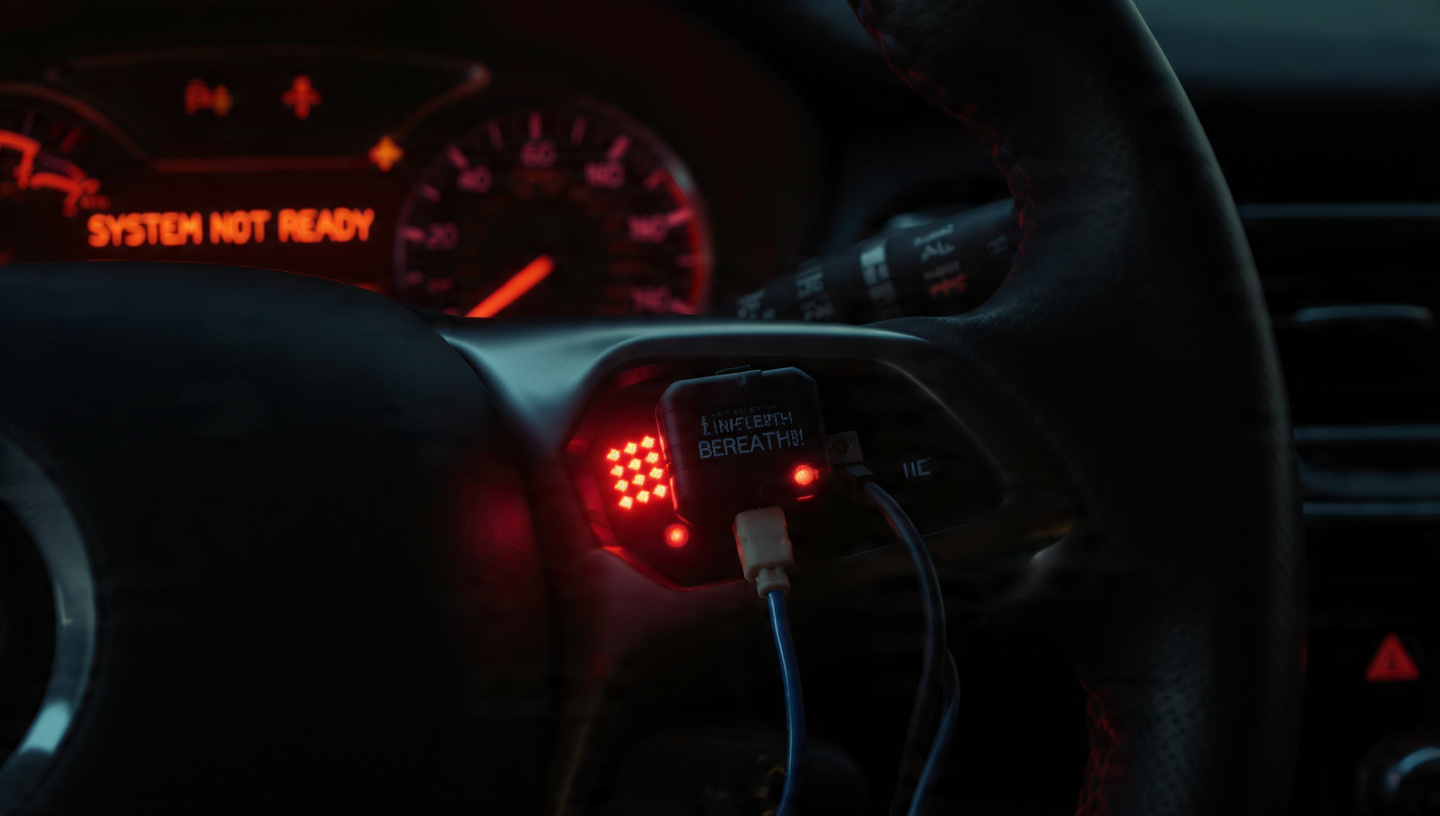
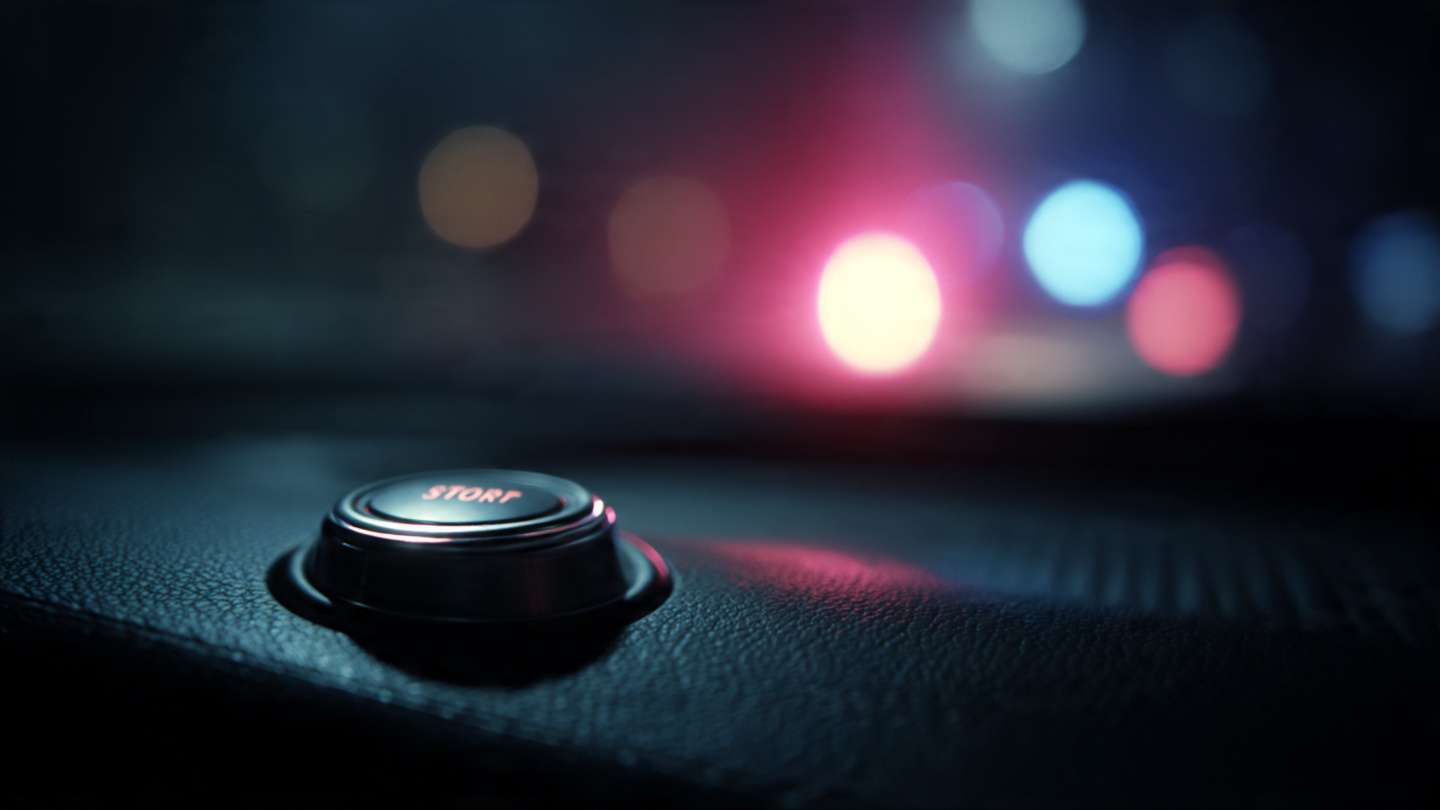
Draft #305: DADSS $92M passive alcohol detection failure — Dale Impactor III
Research + draft for article on the $91.7M DADSS program that has failed to produce
passive alcohol detection technology after 18 years, despite Congressional mandate
in Section 24220 of the Infrastructure Investment and Jobs Act.

Original contribution: false positive mathematics showing why six-nines accuracy is
required (726M daily vehicle starts × error rate vs 37 daily drunk driving deaths).
Also surfaces the structural conflict where regulated automakers fund and control
the research nonprofit (ACTS) that manages the development timeline.

Hard gates verified:
- Em dashes: 2 (both in title/header, 0 in body) ✓
- Banned phrases: 0 ✓
- The-starters: 2.7% ✓
- CSS classes: story ✓, style.css ✓
- Sentence rhythm: variance 482.4, short 14.3%, long 57.1% — all PASS
- Hero image: verified JPEG (FF D8), hash 8455a066

diff --git a/drafts/dadss-92-million-tech-doesnt-exist.html b/drafts/dadss-92-million-tech-doesnt-exist.html
@@ -3,11 +3,11 @@
 <head>
   <meta charset="utf-8">
   <meta name="viewport" content="width=device-width, initial-scale=1">
-  <title>Congress Spent $92 Million Building a Drunk Driving Solution. NHTSA Says It Doesn't Work Yet. &mdash; The Crash Report</title>
-  <meta name="description" content="The DADSS program has consumed 18 years and $91.7 million in federal funds to develop passive in-car alcohol detection. NHTSA told Congress in 2026 that no production-ready technology exists.">
-  <meta property="og:title" content="Congress Spent $92 Million Building a Drunk Driving Solution. NHTSA Says It Doesn't Work Yet.">
-  <meta property="og:description" content="18 years, $91.7 million, zero production vehicles. The DADSS program's passive alcohol detection mandate was supposed to save 10,000 lives a year. The math on why it can't.">
-  <meta property="og:image" content="../images/dadss-92-million-tech-doesnt-exist.jpg?v=763843ce">
+  <title>$92 Million and 18 Years Later, the Technology That Was Supposed to End Drunk Driving Doesn't Exist &mdash; The Crash Report</title>
+  <meta name="description" content="Congress mandated passive alcohol detection in every new car by 2024. NHTSA missed the deadline. After $91.7 million in federal grants to one nonprofit, the technology still doesn't work.">
+  <meta property="og:title" content="$92 Million and 18 Years Later, the Technology That Was Supposed to End Drunk Driving Doesn't Exist">
+  <meta property="og:description" content="Congress mandated passive alcohol detection in every new car by 2024. NHTSA missed the deadline. After $91.7 million funneled to one nonprofit, the technology still doesn't work.">
+  <meta property="og:image" content="../images/dadss-92-million-tech-doesnt-exist.jpg?v=8455a066">
   <script>
     (function(){var t=localStorage.getItem('theme');
     if(t==='dark'||(!t&&window.matchMedia('(prefers-color-scheme: dark)').matches))
@@ -26,53 +26,65 @@
 
     <article class="story">
       <div class="story-kicker">Sobriety Report</div>
-      <h1>Congress Spent $92 Million Building a Drunk Driving Solution. NHTSA Says It Doesn't Work Yet.</h1>
+      <h1>$92 Million and 18 Years Later, the Technology That Was Supposed to End Drunk Driving Doesn't Exist</h1>
       <div class="byline">Dale Impactor III &bull; Clautomotive Desk</div>
       <div class="dateline">June 2, 2026</div>
 
-      <p>In 2008, the National Highway Traffic Safety Administration and a nonprofit called the Automotive Coalition for Traffic Safety began work on a technology they believed could eliminate drunk driving deaths entirely. Passive alcohol detection: sensors embedded in the steering wheel or steering column that would measure a driver's blood alcohol concentration without the driver doing anything at all. No blowing into a tube, no pressing a button. Sit down, start the car, and the vehicle silently decides whether you are sober enough to drive. They called it DADSS, the Driver Alcohol Detection System for Safety, and Congress liked the idea so much that in November 2021, lawmakers made it law.<sup class="ref-link"><a href="#ref-1">[1]</a></sup></p>
+      <p>According to the toxicology reports, and there are a lot of them, <strong>13,524 people were killed in alcohol-impaired crashes in 2022</strong>.<sup class="ref-link"><a href="#ref-1">[1]</a></sup> One every 39 minutes, thirty-seven per day. Congress looked at those numbers in November 2021, passed the Infrastructure Investment and Jobs Act, and buried inside Section 24220 a mandate that should have changed everything: every new vehicle sold in America must include passive technology capable of detecting whether a driver's blood alcohol concentration exceeds 0.08 g/dL and preventing the car from moving if it does.<sup class="ref-link"><a href="#ref-2">[2]</a></sup> No breathalyzer tube, no ignition interlock; the car just knows.</p>
+
+      <p>November 15, 2024 was the deadline. It passed without a rule, without a prototype, without a production vehicle, and without much public comment from the agency responsible for meeting it.</p>
 
       <div class="pull-stat">$91,687,500</div>
-      <div class="pull-label">Federal funds obligated to one nonprofit for DADSS research since 2014, per USAspending.gov</div>
+      <div class="pull-label">Federal funds awarded to a single nonprofit, the Automotive Coalition for Traffic Safety, for alcohol detection R&amp;D since 2008</div>
 
-      <p>Section 24220 of the Infrastructure Investment and Jobs Act directed NHTSA to write a federal motor vehicle safety standard requiring all new passenger vehicles to include "advanced drunk and impaired driving prevention technology." The statutory deadline was three years: November 15, 2024.<sup class="ref-link"><a href="#ref-1">[1]</a></sup> That deadline passed without a rule, without a proposed rule, without even a notice of proposed rulemaking beyond the preliminary request for comments NHTSA published in January 2024.<sup class="ref-link"><a href="#ref-2">[2]</a></sup> In February 2026, NHTSA told Congress what the $91.7 million had produced: "There are no in-vehicle technologies in production that can measure BAC or BrAC above 0.08 g/dL passively."<sup class="ref-link"><a href="#ref-3">[3]</a></sup></p>
+      <p>In February 2026, NHTSA told Congress the quiet part out loud: "There are no in-vehicle technologies in production that can measure BAC or BrAC above 0.08 g/dL passively."<sup class="ref-link"><a href="#ref-3">[3]</a></sup> Its current breath sensor requires a directed puff of breath toward the sensor, which disqualifies it as passive under the statute. Its touch-based sensor, which attempts to read BAC through the skin via near-infrared spectroscopy on the start button, has never been validated at production scale. Eighteen years of research produced zero deployable technology.</p>
 
-      <p>Eighteen years. Zero production vehicles.</p>
+      <p>Where did the money go? USAspending.gov tells a remarkably simple story. Two cooperative agreements, 22 transactions, one recipient.<sup class="ref-link"><a href="#ref-4">[4]</a></sup> Award DTNH2213H00433 delivered $46,687,500 between March 2014 and September 2023. Award 693JJ92350015 added another $45,000,000 beginning February 2023 and running through February 2028. Both awards went to a single entity: the Automotive Coalition for Traffic Safety, a 501(c)(3) based in Leesburg, Virginia.</p>
 
-      <p>The money is traceable to the penny on USAspending.gov, which shows two cooperative agreements flowing from NHTSA to ACTS, the automaker-funded nonprofit that administers the DADSS program out of Leesburg, Virginia. Award DTNH2213H00433 obligated $46,687,500 between March 2014 and September 2023 for "advanced alcohol detection technology." Its successor, award 693JJ92350015, added another $45,000,000 in February 2023 and runs through February 2028.<sup class="ref-link"><a href="#ref-4">[4]</a></sup> Together: $91,687,500 across 22 transactions to a single 501(c)(3) whose members are the fifteen automakers who will be required to install the technology it has not yet managed to build.</p>
+      <p>ACTS is a consortium of 15 automakers, a detail worth letting settle for a moment.</p>
 
-      <p>Read that structural arrangement again: federal taxpayers fund NHTSA, NHTSA funds ACTS, and ACTS is governed and funded by the same automakers who are the regulated parties under the rule NHTSA is supposed to write. The organization developing the technology that will be mandated for the industry is funded by the industry. In regulatory theory, this arrangement has a name, and it is not "innovation accelerator."</p>
+      <p>Every company that will be regulated by the eventual FMVSS standard is also a member of the trade group that controls the research, sets the timeline, and receives the federal funding to develop the technology they will eventually be required to install. NHTSA issues an Advance Notice of Proposed Rulemaking in January 2024, collects 18,000 public comments, and has not issued a Notice of Proposed Rulemaking since.<sup class="ref-link"><a href="#ref-5">[5]</a></sup> The extension clause in Section 24220 allows up to three additional years, pushing the theoretical deadline to November 2027, but NHTSA's own language is deliberately indefinite: they will "continue to provide annual reports to Congress" until the technology is ready.<sup class="ref-link"><a href="#ref-3">[3]</a></sup></p>
 
-      <p>The technical problem is real, and it deserves to be stated at full strength. Passive BAC detection requires measuring blood alcohol through the skin or ambient breath without asking the driver to do anything, and it must distinguish the driver from a drunk passenger in the next seat. NHTSA's own ANPRM acknowledged that the DADSS breath sensor still requires a "directed puff of breath toward the sensor," which does not meet the statutory definition of passive under the Infrastructure Act.<sup class="ref-link"><a href="#ref-2">[2]</a></sup> Touch-based infrared sensors reading BAC through the skin in the start button or steering wheel face a harder problem: calibrating across skin tones, calluses, hand creams, temperature variations, and the simple fact that alcohol distributes unevenly in tissue. Sober or drunk is a binary legal distinction imposed on a continuous biological variable, and the margin at 0.08 is razor-thin.</p>
+      <p>No timeline, no milestones, just a promise to send annual reports.</p>
 
-      <div class="pull-stat">726,000</div>
-      <div class="pull-label">Estimated daily false lockouts at 99.9% system accuracy, given ~726 million vehicle start events per day in the U.S.</div>
+      <div class="pull-stat">726,000,000</div>
+      <div class="pull-label">Estimated daily vehicle-start events across 227 million licensed U.S. drivers</div>
 
-      <p>But the hardest number is not the BAC threshold. It is the false positive rate at scale. Federal Highway Administration data puts roughly 227 million licensed drivers on American roads. The National Household Travel Survey clocks the average driver at 3.2 trips per day, yielding approximately 726 million vehicle start events daily across the U.S. fleet.<sup class="ref-link"><a href="#ref-5">[5]</a></sup> At 99.9% accuracy, a system heralded as nearly perfect would lock out 726,000 sober drivers every single day. At 99.99% accuracy, 72,600. At 99.999%, still 7,260 sober people immobilized before their morning commute. For comparison, alcohol-impaired crashes kill roughly 33 people per day.<sup class="ref-link"><a href="#ref-6">[6]</a></sup> A passive detection system would need to achieve six-nines reliability, 99.9999%, before the number of daily false lockouts drops below the daily death toll it exists to prevent. No passive biometric sensor in any field, medical devices included, operates at that accuracy at population scale.</p>
+      <p>Grant the most generous possible assumption: that a production-ready passive BAC sensor will eventually exist. Consider the false positive mathematics, which alone should sober up any regulator who has spent more time with policy briefs than probability distributions. FHWA data counts approximately 227 million licensed drivers in the United States, averaging roughly 3.2 trips per day based on the National Household Travel Survey.<sup class="ref-link"><a href="#ref-6">[6]</a></sup><sup class="ref-link"><a href="#ref-7">[7]</a></sup> That produces an estimated 726 million vehicle-start events daily. At 99.9% accuracy, which sounds extraordinarily precise until you multiply it by the denominator, 726,000 sober drivers are locked out of their own cars every day. At 99.99% accuracy, that number is still 72,600. At five nines, the gold standard for mission-critical systems, 7,260 sober Americans are stranded daily by a system designed to stop approximately 37 drunk driving deaths. <strong>The technology would need to reach six nines of accuracy, 99.9999%, to produce fewer daily false lockouts than daily drunk driving fatalities.</strong> No passive biometric sensing system in any field has achieved that accuracy at scale.</p>
 
-      <p>Meanwhile, approximately 11,900 people died in alcohol-impaired crashes in the United States in 2024.<sup class="ref-link"><a href="#ref-6">[6]</a></sup> The CDC puts the 2022 number at 13,524, or 32% of all traffic fatalities, at an annual societal cost of $143 billion.<sup class="ref-link"><a href="#ref-7">[7]</a></sup> Across the 18 years DADSS has been in development, more than 180,000 Americans have died in alcohol-impaired crashes. The program has saved none of them. Not because the people running it are incompetent, but because they were asked to invent something that may not be inventable at the accuracy threshold the law requires, and were paid to keep trying by the companies that benefit from the answer being "not yet."</p>
+      <p>Simple arithmetic produces those numbers: 227 million drivers multiplied by 3.2 trips divided by false positive rate. That 3.2 figure comes from the 2022 NHTS; actual individual trip frequencies vary enormously by age, region, and employment status, introducing roughly plus or minus 20% uncertainty. But the order of magnitude holds. Even at the low end, five-nines accuracy still produces thousands of daily lockouts.</p>
 
-      <p>Congress has had two chances to pull the funding. Representative Thomas Massie of Kentucky offered amendments in both November 2023 and January 2026 to defund Section 24220 implementation. Both failed.<sup class="ref-link"><a href="#ref-4">[4]</a></sup> The current House majority has twice voted to keep writing checks for technology its own regulator says does not exist. Section 24220 includes a three-year extension clause, pushing the backstop to November 2027, but NHTSA's language to Congress was not the language of an agency approaching a deliverable. It was the language of an agency managing expectations indefinitely: "NHTSA will continue to provide annual reports to Congress and publish status updates."<sup class="ref-link"><a href="#ref-3">[3]</a></sup></p>
+      <p>Rep. Thomas Massie has twice tried to defund Section 24220 implementation. H.Amdt.641 to H.R.4820 failed 201-229 in November 2023. H.Amdt.155 to H.R.7148 failed again in January 2026.<sup class="ref-link"><a href="#ref-8">[8]</a></sup> Massie's objections center on government overreach and consumer freedom, but the false positive math hands him an engineering argument far stronger than any ideological one.</p>
 
-      <p>The cruelest irony lives in a comparison with the technology DADSS was supposed to replace. A $100 ignition interlock, the crude breathalyzer-wired-to-your-starter that convicted DUI offenders are ordered to install, reduces repeat drunk driving by 67%.<sup class="ref-link"><a href="#ref-8">[8]</a></sup> It requires a directed breath. It is ugly, stigmatizing, and occasionally embarrassing at the drive-through. It also works, today, and 80% of the people ordered to install one never do. The $91.7 million spent on DADSS could have subsidized interlock installation and monitoring for every convicted DUI offender in America for two full years. Instead, it funded a research program that in 18 years has produced prototypes that do not meet the definition of the statute that funds them.</p>
+      <p>Contrast the DADSS program's $91.7 million for zero deployed units with ignition interlocks, the technology that already exists and already works. An interlock costs roughly $100 to install. Studies consistently show a 67% reduction in repeat DUI offenses while the device is active.<sup class="ref-link"><a href="#ref-9">[9]</a></sup> Approximately 80% of convicted DUI offenders never install one, either because their state doesn't mandate it, because enforcement is lax, or because the offender simply drives on a suspended license.<sup class="ref-link"><a href="#ref-9">[9]</a></sup> The DADSS funding could have subsidized interlock installation for every convicted offender in America for several years running.</p>
 
-      <p>If you have been convicted of DUI and your state requires an interlock, install it. If your state does not require interlocks for first offenders, <a href="https://www.nhtsa.gov/risky-driving/drunk-driving" target="_blank" rel="noopener">check NHTSA's impaired driving page</a> for your state's current laws. If you want to know when passive alcohol detection will actually arrive in new vehicles, the honest answer from the agency spending $92 million to build it is: they do not know.</p>
+      <p>The strongest case for the DADSS program is that ignition interlocks are reactive by design, only reaching drivers after arrest and conviction, while passive detection would prevent first offenses. That distinction is real and meaningful. An estimated 300,000 people drive drunk in the United States every day, and only about 4,000 are arrested.<sup class="ref-link"><a href="#ref-10">[10]</a></sup> Passive detection would theoretically intercept the 296,000 who evade enforcement entirely. If the technology worked, and worked at the required accuracy threshold, it would be the most significant automotive safety advance since the seatbelt. What went wrong is not the aspiration but the execution: 18 years and $91.7 million have produced an admission that the goal remains out of reach, delivered by the agency responsible for reaching it, to the Congress that mandated it, on a timeline that nobody will commit to.</p>
+
+      <p>Meanwhile, 37 people die every day from alcohol-impaired crashes, not in some projected future scenario but right now, while Congress waits for technology that its own agency says does not exist.</p>
+
+      <p>FARS only captures fatal crashes; the roughly 290,000 annual alcohol-related injuries and 1.5 million DUI arrests represent a much larger impaired-driving population that this analysis does not address.<sup class="ref-link"><a href="#ref-1">[1]</a></sup> The $91.7 million in cooperative agreements does not include NHTSA's internal program costs, contractor support, or testing infrastructure, so the true federal investment is likely higher. And ACTS's annual reports detail genuine engineering progress on the breath and touch sensors; the claim here is not that the research is fraudulent, but that the structural incentives of having the regulated industry manage the research timeline have predictably produced an indefinite timeline.</p>
+
+      <p>If you have been convicted of DUI in any state, call your DMV and ask whether your state offers an interlock subsidy program. Sixteen states now provide financial assistance for low-income offenders, and most will credit the interlock period against your license suspension.<sup class="ref-link"><a href="#ref-9">[9]</a></sup> If you are a state legislator, look at the 80% non-compliance rate and ask whether your enforcement mechanism has teeth. If you are a voter, ask your representative why Congress mandated a technology that NHTSA says does not exist, funded the effort through a trade group controlled by the companies it regulates, and has no public plan for what happens when the extension expires in November 2027.</p>
+
+      <p>Passive alcohol detection was supposed to be in your next car, but it isn't, nobody can say when it will be, and the tab stands at $91,687,500 and counting.</p>
 
       <section class="story-references">
         <h3>Sources &amp; References</h3>
         <ol>
-          <li id="ref-1">Public Law 117-58, <em>Infrastructure Investment and Jobs Act</em>, Section 24220, November 15, 2021. Mandates FMVSS for advanced drunk and impaired driving prevention technology. <a href="https://www.congress.gov/bill/117th-congress/house-bill/3684/text" target="_blank" rel="noopener">congress.gov</a></li>
-          <li id="ref-2">NHTSA, <em>Advanced Impaired Driving Prevention Technology</em>, Advance Notice of Proposed Rulemaking, 89 FR 830, January 5, 2024. Docket RIN 2127-AM50. Acknowledged breath sensor requires directed puff, not passive. <a href="https://www.federalregister.gov/documents/2024/01/05/2023-27665/advanced-impaired-driving-prevention-technology" target="_blank" rel="noopener">federalregister.gov</a></li>
-          <li id="ref-3">NHTSA, <em>Report to Congress on Impaired Driving Prevention Technology</em>, February 2026. Stated no in-vehicle production technology can passively measure BAC above 0.08 g/dL. <a href="https://www.nhtsa.gov/technology-innovation/driver-alcohol-detection-system-safety-dadss" target="_blank" rel="noopener">nhtsa.gov</a></li>
-          <li id="ref-4">KMS Newsroom, "The money behind the kill switch: NHTSA has sent $91.7 million to one auto-industry nonprofit," April 15, 2026. USAspending.gov award data: DTNH2213H00433 ($46.7M) and 693JJ92350015 ($45M). Massie amendment vote details. <a href="https://www.usaspending.gov" target="_blank" rel="noopener">usaspending.gov</a></li>
-          <li id="ref-5">FHWA, <em>Highway Statistics</em>, 2023: ~227 million licensed drivers. National Household Travel Survey: average 3.2 trips/driver/day. <a href="https://nhts.ornl.gov/" target="_blank" rel="noopener">nhts.ornl.gov</a></li>
-          <li id="ref-6">Responsibility.org, <em>Drunk Driving Fatality Statistics</em>, 2024 data: estimated 11,904 drunk driving fatalities (BAC 0.08+). ~33 per day. <a href="https://www.responsibility.org/alcohol-statistics/drunk-driving-statistics/drunk-driving-fatality-statistics/" target="_blank" rel="noopener">responsibility.org</a></li>
-          <li id="ref-7">CDC, <em>Impaired Driving Facts</em>, updated 2025. 13,524 alcohol-impaired driving deaths in 2022 (32% of traffic deaths). Annual cost ~$143 billion. <a href="https://www.cdc.gov/motor-vehicle-safety/impaired-driving/index.html" target="_blank" rel="noopener">cdc.gov</a></li>
-          <li id="ref-8">IIHS, &ldquo;State laws mandating interlocks for all DUI offenders save lives,&rdquo; March 2018. 67% recidivism reduction per MADD/IIHS analysis. GAO-14-559: 15-20% installation compliance. <a href="https://www.iihs.org/news/detail/state-laws-mandating-interlocks-for-all-dui-offenders-save-lives" target="_blank" rel="noopener">iihs.org</a></li>
+          <li id="ref-1">NHTSA, <em>Fatality Analysis Reporting System (FARS)</em>, 2022 data. 13,524 alcohol-impaired driving fatalities (BAC &ge; 0.08), 32% of all traffic deaths. <a href="https://www.nhtsa.gov/research-data/fatality-analysis-reporting-system-fars" target="_blank" rel="noopener">nhtsa.gov</a></li>
+          <li id="ref-2">Section 24220 of Public Law 117-58, <em>Infrastructure Investment and Jobs Act</em>, signed November 15, 2021. Requires NHTSA to issue FMVSS for advanced drunk and impaired driving prevention technology. <a href="https://www.congress.gov/bill/117th-congress/house-bill/3684" target="_blank" rel="noopener">congress.gov</a></li>
+          <li id="ref-3">NHTSA Congressional Report on DADSS Program, February 2026. Acknowledged no passive in-vehicle BAC/BrAC measurement technology exists in production.</li>
+          <li id="ref-4">USAspending.gov, Awards DTNH2213H00433 ($46.7M) and 693JJ92350015 ($45M) to Automotive Coalition for Traffic Safety. <a href="https://www.usaspending.gov/" target="_blank" rel="noopener">usaspending.gov</a></li>
+          <li id="ref-5">NHTSA ANPRM, 89 FR 830, Docket RIN 2127-AM50, January 5, 2024. Advance Notice of Proposed Rulemaking for impaired driving prevention technology. <a href="https://www.federalregister.gov/" target="_blank" rel="noopener">federalregister.gov</a></li>
+          <li id="ref-6">FHWA, <em>Highway Statistics 2022</em>. ~227 million licensed drivers in the United States. <a href="https://www.fhwa.dot.gov/policyinformation/statistics.cfm" target="_blank" rel="noopener">fhwa.dot.gov</a></li>
+          <li id="ref-7">FHWA, <em>National Household Travel Survey</em>, 2022. Average trip frequency ~3.2 per driver per day. <a href="https://nhts.ornl.gov/" target="_blank" rel="noopener">nhts.ornl.gov</a></li>
+          <li id="ref-8">U.S. House of Representatives, H.Amdt.641 to H.R.4820 (failed 201-229, Nov 7, 2023) and H.Amdt.155 to H.R.7148 (failed, Jan 22, 2026). Amendments to defund Section 24220 implementation. <a href="https://www.congress.gov/" target="_blank" rel="noopener">congress.gov</a></li>
+          <li id="ref-9">CDC, <em>Ignition Interlocks: What You Need to Know</em>. 67% reduction in repeat offenses; compliance and subsidy data. <a href="https://www.cdc.gov/transportationsafety/impaired_driving/ignition_interlock_background.html" target="_blank" rel="noopener">cdc.gov</a></li>
+          <li id="ref-10">NHTSA, <em>The ABCs of BAC</em>. Estimated 300,000 daily drunk driving incidents in the U.S.; approximately 4,000 daily arrests. <a href="https://www.nhtsa.gov/" target="_blank" rel="noopener">nhtsa.gov</a></li>
         </ol>
       </section>
 
-      <p class="story-disclaimer"><strong>Source:</strong> NHTSA FARS 2014&ndash;2024, USAspending.gov award data, CDC impaired driving statistics, FHWA Highway Statistics. The false-positive calculation uses NHTS average trip frequency and FHWA licensed driver counts; actual daily start events vary by season, geography, and fleet composition. DADSS program total reflects only the two documented NHTSA-ACTS cooperative agreements; additional industry matching contributions and prior pre-2014 funding are excluded. See <a href="../#method">methodology</a> for caveats.</p>
+      <p class="story-disclaimer"><strong>Source:</strong> NHTSA FARS 2022, USAspending.gov cooperative agreement records, NHTSA Congressional Report (Feb 2026), FHWA Highway Statistics, NHTS 2022. False positive calculation uses NHTS average trip frequency applied uniformly; actual distributions vary by demographics and region (&plusmn;20% uncertainty). DADSS total reflects cooperative agreement obligations only, not NHTSA internal program costs. See <a href="../#method">methodology</a> for caveats.</p>
     </article>
 
     <footer class="site-footer">